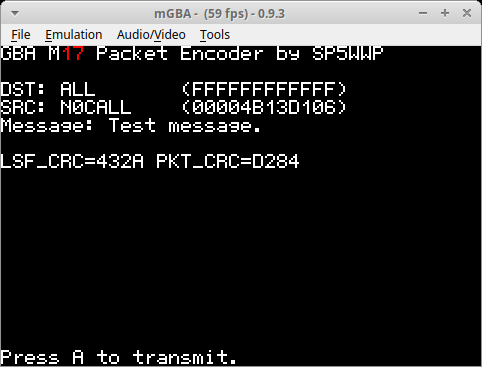
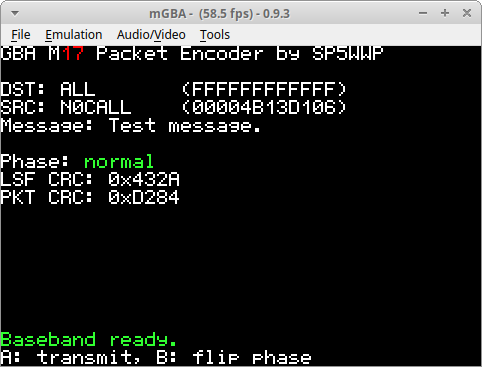
added phase inversion setting

diff --git a/main.c b/main.c
@@ -7,15 +7,17 @@
 #include "gba.h"
 #include "fonts.h"
 
-#define DS_BUSY (REG_TM0CNT_H & TIMER_ENABLED)
+//input data
+struct settings_t
+{
+	char dst_raw[10];						//raw, unencoded destination address
+	char src_raw[10];						//raw, unencoded source address
+	uint8_t can;							//Channel Access Number
+	char msg[64];							//text message
+	uint8_t phase;							//baseband phase 1-normal, 0-inverted
+} settings;
 
 //M17 stuff
-char msg[64];								//text message
-
-char dst_raw[10]="ALL";						//raw, unencoded destination address (default)
-char src_raw[10]="N0CALL";					//raw, unencoded source address (default)
-uint8_t can=0;
-
 lsf_t lsf;									//Link Setup Frame data
 
 uint8_t full_packet_data[32*25]={0};		//packet payload
@@ -169,7 +171,7 @@ void play_sample(uint32_t* sample, uint16_t len)
 }
 
 //filter symbols, flt is assumed to be 41 taps long
-void filter_symbols(int8_t* out, const int8_t* in, const int32_t* flt)
+void filter_symbols(int8_t* out, const int8_t* in, const int32_t* flt, uint8_t phase_inv)
 {
 	static int32_t last[41]; //memory for last samples
 
@@ -181,7 +183,12 @@ void filter_symbols(int8_t* out, const int8_t* in, const int32_t* flt)
 				last[k]=last[k+1];
 
 			if(j==0)
-				last[40]=in[i];
+			{
+				if(phase_inv) //normal phase - invert the symbol stream as GBA inverts the output
+					last[40]=-in[i];
+				else
+					last[40]= in[i];
+			}
 			else
 				last[40]=0;
 
@@ -192,6 +199,37 @@ void filter_symbols(int8_t* out, const int8_t* in, const int32_t* flt)
 			out[i*5+j]=acc>>(24-6); //shr by 24 sets gain to unity (or whatever the gain of the tap set is), but we need to crank it up some more
 		}
 	}
+}
+
+//generate baseband samples - add args later
+void generate_baseband(void)
+{
+	//flush the RRC filter
+	int8_t flush[SYM_PER_FRA]={0};
+	filter_symbols(NULL, flush, i_rrc_taps_5, 1);
+
+	//generate preamble
+	pkt_sym_cnt=0;
+	send_preamble_i(symbols, &pkt_sym_cnt);
+	filter_symbols((int8_t*)&samples[0][0], symbols, i_rrc_taps_5, settings.phase);
+
+	//are our samples ok? plot a pretty sinewave
+	//for(uint8_t i=0; i<80; i++)
+		//set_pixel(i*3, 90-20.0f*(float)*((int8_t*)&samples[0][0]+i/*+(sizeof(samples)/4-80)*/)/127.0f, 0, 255, 0);
+
+	//generate LSF
+	send_frame_i(symbols, NULL, FRAME_LSF, &lsf);
+	filter_symbols((int8_t*)&samples[1][0], symbols, i_rrc_taps_5, settings.phase);
+
+	//generate frames
+	full_packet_data[25]=0x80|(num_bytes<<2); //fix this (hardcoded single frame of length<=25)
+	send_frame_i(symbols, full_packet_data, FRAME_PKT, NULL); //no counter yet
+	filter_symbols((int8_t*)&samples[2][0], symbols, i_rrc_taps_5, settings.phase);
+
+	//generate EOT
+	pkt_sym_cnt=0;
+	send_eot_i(symbols, &pkt_sym_cnt);
+	filter_symbols((int8_t*)&samples[3][0], symbols, i_rrc_taps_5, settings.phase);
 }
 
 //interrupt handler
@@ -219,15 +257,16 @@ int main(void)
 	REG_IME=1; //master enable interrupts
 	REG_IE = TIM1; //enable irq for timer 1
 
-	//M17 stuff
-	sprintf(msg, "Test message.");
-	sprintf(dst_raw, "ALL");
-	sprintf(src_raw, "N0CALL");
+	//input data
+	sprintf(settings.msg, "Test message.");
+	sprintf(settings.dst_raw, "ALL");
+	sprintf(settings.src_raw, "N0CALL");
+	settings.phase=1; //normal
 
 	//obtain data and append with CRC
 	//memset(full_packet_data, 0, 32*25);
 	full_packet_data[0]=0x05;
-	num_bytes=sprintf((char*)&full_packet_data[1], msg)+2; //0x05 and 0x00
+	num_bytes=sprintf((char*)&full_packet_data[1], settings.msg)+2; //0x05 and 0x00
 	uint16_t packet_crc=CRC_M17(full_packet_data, num_bytes);
 	full_packet_data[num_bytes]  =packet_crc>>8;
 	full_packet_data[num_bytes+1]=packet_crc&0xFF;
@@ -236,15 +275,15 @@ int main(void)
 	//encode dst, src for the lsf struct
 	uint64_t dst_enc=0, src_enc=0;
 	uint16_t type=0;
-	encode_callsign_value(&dst_enc, (uint8_t*)dst_raw);
-	encode_callsign_value(&src_enc, (uint8_t*)src_raw);
+	encode_callsign_value(&dst_enc, (uint8_t*)settings.dst_raw);
+	encode_callsign_value(&src_enc, (uint8_t*)settings.src_raw);
 	for(int8_t i=5; i>=0; i--)
 	{
 		lsf.dst[5-i]=(dst_enc>>(i*8))&0xFF;
 		lsf.src[5-i]=(src_enc>>(i*8))&0xFF;
 	}
 	
-	type=((uint16_t)0x01<<1)|((uint16_t)can<<7); //packet mode, content: data
+	type=((uint16_t)0x01<<1)|((uint16_t)settings.can<<7); //packet mode, content: data
 	lsf.type[0]=(uint16_t)type>>8;
 	lsf.type[1]=(uint16_t)type&0xFF;
 	memset(&lsf.meta, 0, 112/8);
@@ -254,35 +293,17 @@ int main(void)
 	lsf.crc[0]=lsf_crc>>8;
 	lsf.crc[1]=lsf_crc&0xFF;
 
-	//send preamble
-	pkt_sym_cnt=0;
-	send_preamble_i(symbols, &pkt_sym_cnt);
-	filter_symbols((int8_t*)&samples[0][0], symbols, i_rrc_taps_5);
-
-	//are our samples ok? plot a pretty sinewave
-	//for(uint8_t i=0; i<80; i++)
-		//set_pixel(i*3, 90-20.0f*(float)*((int8_t*)&samples[0][0]+i/*+(sizeof(samples)/4-80)*/)/127.0f, 0, 255, 0);
-
-	//send LSF
-	send_frame_i(symbols, NULL, FRAME_LSF, &lsf);
-	filter_symbols((int8_t*)&samples[1][0], symbols, i_rrc_taps_5);
-
-	//generate frames
-	full_packet_data[25]=0x80|(num_bytes<<2); //fix this (hardcoded single frame of length<=25)
-	send_frame_i(symbols, full_packet_data, FRAME_PKT, NULL); //no counter yet
-	filter_symbols((int8_t*)&samples[2][0], symbols, i_rrc_taps_5);
-
-	//send EOT
-	pkt_sym_cnt=0;
-	send_eot_i(symbols, &pkt_sym_cnt);
-	filter_symbols((int8_t*)&samples[3][0], symbols, i_rrc_taps_5);
-
 	//display params
-	str_print(0, 2*9, 255, 255, 255, "DST: %s", dst_raw); str_print(15*6, 2*9, 255, 255, 255, "(%04X", dst_enc>>32); str_print(15*6, 2*9, 255, 255, 255, "%13X)", dst_enc);
-	str_print(0, 3*9, 255, 255, 255, "SRC: %s", src_raw); str_print(15*6, 3*9, 255, 255, 255, "(%04X", src_enc>>32); str_print(15*6, 3*9, 255, 255, 255, "%13X)", src_enc);
-	str_print(0, 4*9, 255, 255, 255, "Message: %s", msg);
-	str_print(0, 6*9, 255, 255, 255, "LSF_CRC=%04X PKT_CRC=%04X", lsf_crc, packet_crc);
-	str_print(0, SCREEN_HEIGHT-1*9+1, 255, 255, 255, "Press A to transmit.");
+	str_print(0, 2*9, 255, 255, 255, "DST: %s", settings.dst_raw); str_print(15*6, 2*9, 255, 255, 255, "(%04X", dst_enc>>32); str_print(15*6, 2*9, 255, 255, 255, "%13X)", dst_enc);
+	str_print(0, 3*9, 255, 255, 255, "SRC: %s", settings.src_raw); str_print(15*6, 3*9, 255, 255, 255, "(%04X", src_enc>>32); str_print(15*6, 3*9, 255, 255, 255, "%13X)", src_enc);
+	str_print(0, 4*9, 255, 255, 255, "Message: %s", settings.msg);
+
+	str_print(0, 6*9, 255, 255, 255, "Phase: "); settings.phase==1 ? str_print(7*6, 6*9, 50, 255, 50, "normal") : str_print(7*6, 6*9, 255, 50, 50, "inverted");
+	str_print(0, 7*9, 255, 255, 255, "LSF CRC: 0x%04X", lsf_crc);
+	str_print(0, 8*9, 255, 255, 255, "PKT CRC: 0x%04X", packet_crc);
+
+	str_print(0, SCREEN_HEIGHT-2*9+1, 255, 50, 50, "No baseband. Press START to generate.");
+	str_print(0, SCREEN_HEIGHT-1*9+1, 255, 255, 255, "A: transmit, B: flip phase");
 
 	while(1)
 	{
@@ -292,19 +313,12 @@ int main(void)
 
 		//get current key states (REG_KEY_INPUT stores the states inverted)
 		key_states = ~REG_KEY_INPUT & KEY_ANY;
-
-		if(key_states & KEYPAD_LEFT)
-			put_letter('<', 100, 100, 0xFF, 0xFF, 0xFF);
-		else if(key_states & KEYPAD_RIGHT)
-			put_letter('>', 100, 100, 0xFF, 0xFF, 0xFF);
-		else
-			put_letter(127, 100, 100, 0, 0, 0); //clear
 		
-		if(key_states & BUTTON_A) //start playing samples
+		if(key_states & BUTTON_A) //"A" button pressed - start playing samples
 		{
 			if(!DS_BUSY) //not playing samples?
 			{
-				for(uint8_t i=0; i<4; i++)
+				for(uint8_t i=0; i<4; i++) //hardcoded length - 4 frames (preamble, LSF, data, EOT)
 				{
 					play_sample(&samples[i][0], SYM_PER_FRA*5);
 					while(DS_BUSY);
@@ -312,6 +326,23 @@ int main(void)
 				uint32_t x=0;
 				play_sample(&x, 4); //set the last 4 samples to 0 to set the idle voltage at 1/2 Vdd
 			}
+		}
+
+		else if(key_states & BUTTON_B) //"B" pressed - flip the phase setting
+		{
+			settings.phase = !settings.phase;
+			str_print(7*6, 6*9, 0, 0, 0, "\x7F\x7F\x7F\x7F\x7F\x7F\x7F\x7F"); //clear
+			settings.phase==1 ? str_print(7*6, 6*9, 50, 255, 50, "normal") : str_print(7*6, 6*9, 255, 255, 50, "inverted");
+			for(uint16_t i=0; i<50000; i++) __asm("NOP"); //add a small delay
+		}
+
+		else if(key_states & BUTTON_START)
+		{
+			str_print(0, SCREEN_HEIGHT-2*9+1, 0, 0, 0, "\x7F\x7F\x7F\x7F\x7F\x7F\x7F\x7F\x7F\x7F\x7F\x7F\x7F\x7F\x7F\x7F\x7F\x7F\x7F\x7F\x7F\x7F\x7F\x7F\x7F\x7F\x7F\x7F\x7F\x7F\x7F\x7F\x7F\x7F\x7F\x7F\x7F"); //clear
+			str_print(0, SCREEN_HEIGHT-2*9+1, 255, 255, 50, "Generating baseband...");
+			generate_baseband();
+			str_print(0, SCREEN_HEIGHT-2*9+1, 0, 0, 0, "Generating baseband..."); //clear
+			str_print(0, SCREEN_HEIGHT-2*9+1, 50, 255, 50, "Baseband ready.");
 		}
 	}
 

diff --git a/gba.h b/gba.h
@@ -80,3 +80,5 @@
 #define	REG_IME					*(volatile uint16_t*)(MEM_IO + 0x208)	// Interrupt Master Enable
 #define REG_INTR_HANDLER		*(volatile uint32_t*)(0x03007FFC)		// Interrupt Handler
 #define TIM1                    (1<<4)
+
+#define DS_BUSY                 (REG_TM0CNT_H & TIMER_ENABLED)          // Direct Sound busy?
